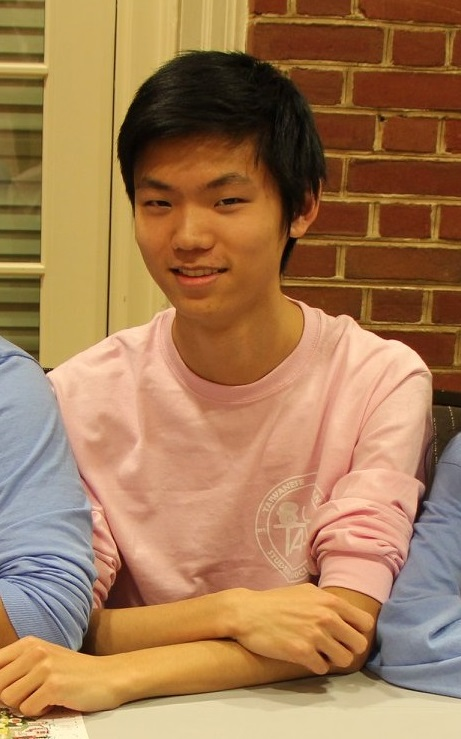
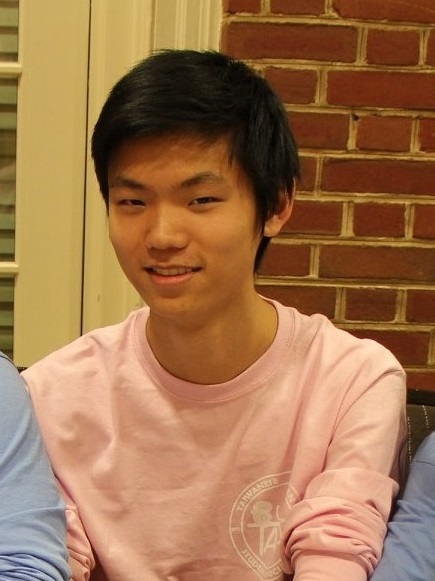
no message

diff --git a/assets/js/main.js b/assets/js/main.js
@@ -1,5 +1,5 @@
 var inputAllowed = true;
-var currentSection = 0;
+var currentSection = -1;
 var descs = [[""],
 			["Academics", "University of Maryland, College Park", "Thomas Jefferson High School", "CodeSignal"],
 			["Projects", "Gait Recognition", "Team AIMAR", "AI/Parallel Computing", "Elementals", "Cadence", "Web Automation", "4 Year Planner"],
@@ -8,28 +8,22 @@ function showSection(s) {
 	if (s == currentSection) {return;}
 	var oldSection = $(".section").eq(currentSection);
 	if (currentSection == 0) {
-		oldSection.find("#intro").css({"animation":"fadeOutLeft 0.50s", "animation-fill-mode":"forwards"});
-		oldSection.find("#profile").css({"animation":"fadeOutRight 0.50s", "animation-fill-mode":"forwards"});
-		oldSection.find("#info > p").each(function(i) {
-			$(this).css({"animation":"fadeOutUp 0.35s", "animation-delay": i*0.05+"s", "animation-fill-mode":"both"});
-		});
+		$("#profile").css({"animation":"fadeOut 0.5s"});
+		$("#info > p").css({"animation":"fadeOut 0.5s"});
 		setTimeout(function() {
 			oldSection.addClass("hidden");
-			oldSection.find("#intro").css({"animation":"", "animation-fill-mode":""});
-			oldSection.find("#profile").css({"animation":"", "animation-fill-mode":""});
-			oldSection.find("#info > p").css({"animation":"", "animation-delay": "", "animation-fill-mode":""});
-		}, 500);
+		}, 300);
 	}
 	else {// Animate out, then reset and hide section
 		oldSection.find(".carousel").eq(0).find(".imgbox").each(function(i) {
-			$(this).css({"animation":"fadeOutLeft 0.50s", "animation-delay":(i*0.05)+"s", "animation-fill-mode":"both"});
+			$(this).css({"animation":"fadeOutLeft 0.30s", "animation-delay":(i*0.05)+"s", "animation-fill-mode":"both"});
 		});
-		oldSection.find(".subsection").css({"animation":"fadeOutRight 0.50s", "animation-fill-mode":"both"});
+		oldSection.find(".subsection").css({"animation":"fadeOutRight 0.30s", "animation-fill-mode":"both"});
 		setTimeout(function() {
 			oldSection.addClass("hidden");
 			oldSection.find(".carousel").eq(0).find(".imgbox").css({"animation": "", "animation-delay": "", "animation-fill-mode":""});
 			oldSection.find(".subsection").css({"animation": "", "animation-fill-mode":""});
-		}, 500);
+		}, 300);
 	}
 	//
 	var newSection = $(".section").eq(s);
@@ -37,16 +31,23 @@ function showSection(s) {
 	newSection.find('h1').text(" ");
 	setTimeout(function() {
 		newSection.removeClass("hidden");
-	}, 500);
-	if (s != 0) {
+	}, 300);
+	console.log(s);
+	if (s == 0) {
+		$("#profile").css({"animation":"fadeIn 0.3s", "animation-fill-mode":"both"});
+		$("#info > p").each(function(i) {
+			$(this).css({"animation": "fadeInDown 0.3s", "animation-delay": i*0.05+"s", "animation-fill-mode":"both"});
+		});
+	}
+	else {
 		setTimeout(function() {
 			newSection.find(".carousel").eq(0).find(".imgbox").each(function(i) {
-				$(this).css({"animation":"fadeInDown 0.50s", "animation-delay":(i*0.05)+"s", "animation-fill-mode":"both"});
+				$(this).css({"animation":"fadeInDown 0.30s", "animation-delay":(i*0.05)+"s", "animation-fill-mode":"both"});
 			});
-		}, 500);
+		}, 300);
 		setTimeout(function() {
 			newSection.find(".carousel").eq(0).find(".imgbox").css({"animation":"", "animation-delay":"", "animation-fill-mode":""});
-		}, 1000);
+		}, 700);
 	}
 	currentSection = s;
 }
@@ -60,7 +61,7 @@ function showContent(sec, id) {
 		}
 	});
 }
-$(document).ready(function () {
+$(document).ready(function () {	
 	$(".imgbox").mouseleave(function(e) {
 		if(e.relatedTarget) {
 			var sec = $(".section").index($(this).parent().parent());
@@ -102,4 +103,5 @@ $(document).ready(function () {
 			$(this).css("opacity", "");
 		}
 	});
+	showSection(0);
 });

diff --git a/index.html b/index.html
@@ -12,20 +12,17 @@
 		<span class="navbutton" id="title">Kevin Kuo</span>
 		<span class="navbutton">Academics</span>
 		<span class="navbutton">Projects</span>
-		<span class="navbutton">About</span>
+		<span class="navbutton">Misc</span>
 	</div>
 	<div id="wrapper">
-		<div class="section">
-			<div id="intro">
-				<p>I'm from Falls Church, Virginia, and I'm currently an undergraduate student at the University of Maryland, College Park. Click on any of the tabs above to learn more about what I do.</p>
+		<div class="section hidden" id="start">
+			<div id="profile">
+				<img src="images/index/tourtaiwan1.jpg" height="300" width="auto">
 			</div>
 			<div id="info">
 				<p><i class="fas fa-address-book"></i> <a href="Kevin Kuo CS Resume.pdf">Resume</a></p>
 				<p><i class="fab fa-github"></i> <a href="https://github.com/imkevinkuo">Github</a></p>
 				<p><i class="fab fa-linkedin"></i> <a href="https://www.linkedin.com/in/kevin-kuo-6b1676166/">LinkedIn</a></p>
-			</div>
-			<div id="profile">
-				<img src="images/index/tourtaiwan1.jpg" height="400" width="auto">
 			</div>
 		</div>
 		
@@ -112,7 +109,7 @@
 				<div class="imgbox"><img src="images/index/pit.jpg"></div>
 			</div>
 			
-			<div class="subsection"> <h1>About</h1>
+			<div class="subsection"> <h1>Misc</h1>
 				<div class="content hidden">
 				<p>I was a captain for my high school track team and specialized in the 400m dash (and shorter races).</p>
 				</div>

diff --git a/assets/css/main.css b/assets/css/main.css
@@ -18,6 +18,8 @@ body {
 }
 /* Navigation */
 #navbar  {
+	display: flex;
+	justify-content: center;
 	position: fixed;
 	top: 0;
 	z-index: 10000;
@@ -31,7 +33,6 @@ body {
 }
 #title {
 	color: lightgrey;
-	margin-left: 4em;
 }
 .navbutton {
 	color: white;
@@ -76,7 +77,7 @@ body {
 	box-shadow: 4px 4px 2px grey;
 	
 	overflow: hidden;
-	transition: width 0.4s;
+	transition: width 0.3s;
 	
 	cursor: pointer;
 	user-select: none;
@@ -86,7 +87,7 @@ body {
 	height: 100%;
 	width: 20rem;
 	transform: translateX(-25.58%);
-	transition: transform 0.4s;
+	transition: transform 0.3s;
 }
 .imgbox.active {
 	width: 20rem;
@@ -94,18 +95,24 @@ body {
 .imgbox.active > img {
 	transform: translateX(0%);
 }
-#intro {
-	animation: fadeInLeft 0.5s;
-	margin: 2rem 2rem 0 2rem;
+#start {
+	justify-content: center;
+	align-items: center;
+	flex-direction: column;
 }
 #info {
-	animation: fadeInDown 0.5s;
 	flex: 0 0 12rem;
-	margin: 2rem 0 0 0;
 }
+
+#info > p {
+	animation: fadeInDown 0.5s;
+	animation-fill-mode: both;
+}
+
 #profile {
-	animation: fadeInRight 0.5s;
-	margin: 1rem 0 0 0;
+	animation: fadeIn 0.5s;
+	margin: 2rem 0 0 0;
+	animation-fill-mode: both;
 }
 /* CONTENT */
 /* just have this scroll with page*/

diff --git a/assets/css/elementals.css b/assets/css/elementals.css
@@ -259,8 +259,7 @@ iframe {
     font-weight: bold;
 	user-select: none;
 }
-.close:hover,
-.close:focus {
+.close:hover, .close:focus {
     color: black;
     cursor: pointer;
 }
